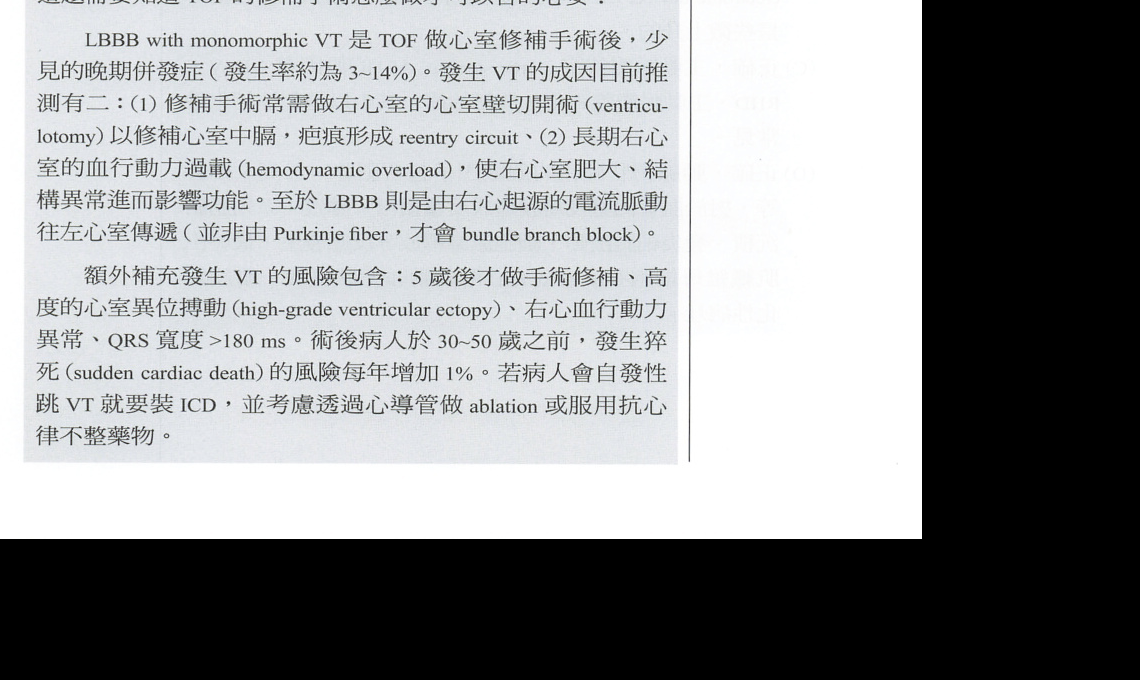
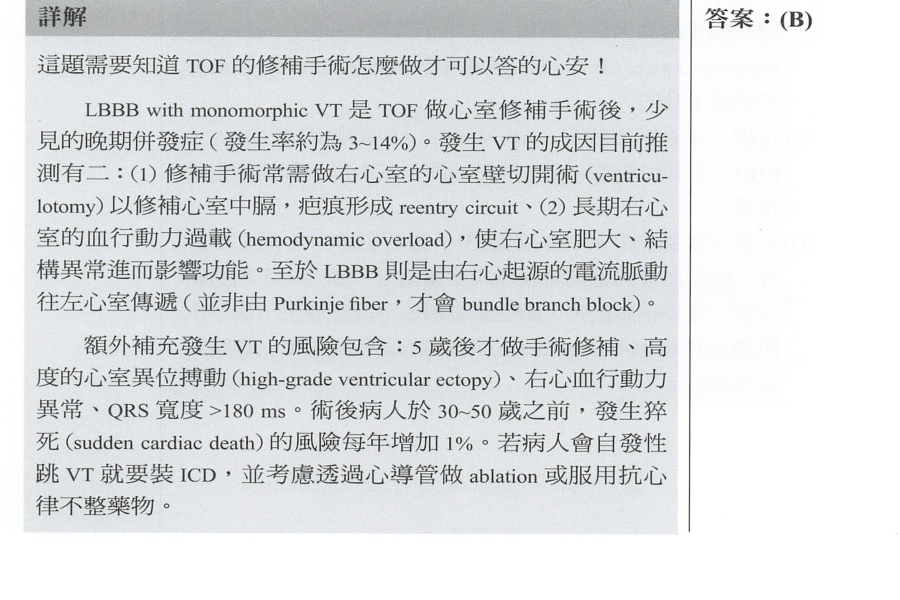
fix: precision crop Q1-10 gray bar and remove container letterboxing

diff --git a/src/App.jsx b/src/App.jsx
@@ -332,15 +332,15 @@ function BookExplanation({ q }) {
             )}
           </div>
           
-          <div className="book-explanation-image-box animate-fade-in" style={{ position: 'relative', background: '#ffffff', borderRadius: '4px', padding: '0.5rem', border: '1px solid var(--border-color)' }}>
+          <div className="book-explanation-image-box animate-fade-in" style={{ position: 'relative', width: '100%', background: '#ffffff', borderRadius: '4px', border: '1px solid var(--border-color)', padding: '0.5rem' }}>
             <img 
               src={imgUrl} 
               alt={`原書第 ${activePageNum} 頁詳解`}
-              style={{ width: '100%', maxHeight: '550px', objectFit: 'contain', borderRadius: '4px', cursor: 'zoom-in', background: '#ffffff' }}
+              style={{ width: '100%', height: 'auto', display: 'block', borderRadius: '4px', cursor: 'zoom-in', background: '#ffffff' }}
               onError={() => setImgError(true)}
               onClick={() => setIsFullScreen(true)}
             />
-            <div style={{ display: 'flex', justifyContent: 'space-between', alignItems: 'center', marginTop: '0.25rem', fontSize: '0.75rem', color: 'var(--text-secondary)' }}>
+            <div style={{ display: 'flex', justifyContent: 'space-between', alignItems: 'center', marginTop: '0.5rem', padding: '0 0.25rem', fontSize: '0.75rem', color: 'var(--text-secondary)' }}>
               <span>點擊圖片可放大閱讀</span>
               <button 
                 className="btn-link"
@@ -358,11 +358,11 @@ function BookExplanation({ q }) {
       {isFullScreen && showImageContainer && (
         <div 
           className="modal-overlay" 
-          style={{ position: 'fixed', top: 0, left: 0, right: 0, bottom: 0, backgroundColor: 'rgba(0,0,0,0.75)', display: 'flex', justifyContent: 'center', alignItems: 'center', zIndex: 1000, cursor: 'zoom-out' }}
+          style={{ position: 'fixed', top: 0, left: 0, right: 0, bottom: 0, backgroundColor: 'rgba(0,0,0,0.75)', display: 'flex', justifyContent: 'center', alignItems: 'center', zIndex: 1000, cursor: 'zoom-out', padding: '1rem' }}
           onClick={() => setIsFullScreen(false)}
         >
           <div 
-            style={{ position: 'relative', maxWidth: '92%', maxHeight: '92%', display: 'flex', flexDirection: 'column', alignItems: 'center', background: '#ffffff', padding: '1rem', borderRadius: '8px', boxShadow: '0 8px 30px rgba(0,0,0,0.5)' }}
+            style={{ position: 'relative', maxWidth: '900px', width: '100%', maxHeight: '90vh', overflowY: 'auto', display: 'flex', flexDirection: 'column', alignItems: 'center', background: '#ffffff', padding: '1.5rem', borderRadius: '8px', boxShadow: '0 8px 30px rgba(0,0,0,0.5)' }}
             onClick={e => e.stopPropagation()}
           >
             <button 
@@ -374,10 +374,10 @@ function BookExplanation({ q }) {
             <img 
               src={imgUrl} 
               alt="全螢幕詳解" 
-              style={{ maxWidth: '100%', maxHeight: '82vh', objectFit: 'contain', borderRadius: '4px', background: '#ffffff' }}
+              style={{ width: '100%', height: 'auto', display: 'block', borderRadius: '4px', background: '#ffffff' }}
               onClick={() => setIsFullScreen(false)}
             />
-            <p style={{ color: '#555555', marginTop: '0.5rem', fontSize: '0.85rem', textAlign: 'center' }}>
+            <p style={{ color: '#555555', marginTop: '0.75rem', fontSize: '0.85rem', textAlign: 'center' }}>
               {hasCroppedImage ? '原書詳解截圖' : `原書第 ${activePageNum} 頁 - 2024年醫師國考試題詳解 臨床醫學`}
             </p>
           </div>
